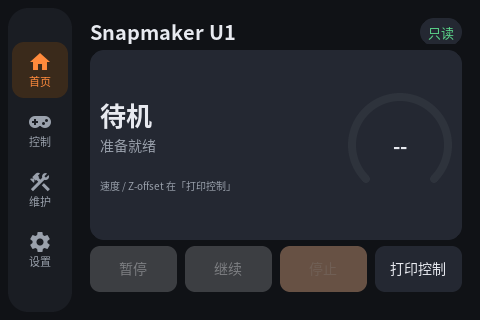
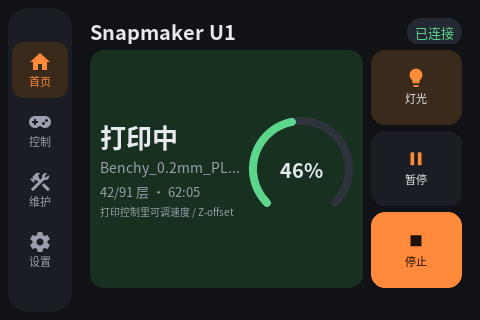
首页改成左 3/4 状态卡 + 右 1/4 快捷操作
- 右侧快捷列：灯光、暂停/继续（同一按钮随状态切换）、停止
- 左侧状态卡占满高度，点卡片仍打开打印控制浮层
- 文件名和层数/用时改为单行省略，不再换行挤压
- 层数/用时压缩为 “42/91 层 · 62:05”
- 版本 1.6.6

diff --git a/src/ui.cpp b/src/ui.cpp
@@ -281,9 +281,12 @@ struct Refs {
 
     // 首页快捷打印
     lv_obj_t* home_pause_btn = nullptr;
-    lv_obj_t* home_resume_btn = nullptr;
+    lv_obj_t* home_pause_icon = nullptr;
+    lv_obj_t* home_pause_text = nullptr;
     lv_obj_t* home_stop_btn = nullptr;
-    lv_obj_t* home_print_btn = nullptr;
+    lv_obj_t* home_light_btn = nullptr;
+    lv_obj_t* home_light_icon = nullptr;
+    lv_obj_t* home_light_text = nullptr;
 
     // 打印控制浮层
     lv_obj_t* print_sheet = nullptr;
@@ -903,6 +906,15 @@ void apply_light_ui(bool on) {
                                     theme::c(on ? theme::PRIMARY : theme::MUTED), 0);
     if (R.ctrl_light_text)
         lv_obj_set_style_text_color(R.ctrl_light_text,
+                                    theme::c(on ? theme::TEXT : theme::MUTED), 0);
+    if (R.home_light_btn)
+        lv_obj_set_style_bg_color(R.home_light_btn,
+                                  theme::c(on ? theme::PRIMARY_DIM : theme::SURFACE), 0);
+    if (R.home_light_icon)
+        lv_obj_set_style_text_color(R.home_light_icon,
+                                    theme::c(on ? theme::PRIMARY : theme::MUTED), 0);
+    if (R.home_light_text)
+        lv_obj_set_style_text_color(R.home_light_text,
                                     theme::c(on ? theme::TEXT : theme::MUTED), 0);
 }
 
@@ -2256,6 +2268,40 @@ void update_sheet() {
 
 // ---------------------------------------------------------------- pages
 
+void home_pause_cb(lv_event_t*) {
+    if (!MR) return;
+    PrinterState st = MR->snapshot();
+    if (st.print_state == "printing")
+        send_action("PAUSE");
+    else if (st.print_state == "paused")
+        send_action("RESUME");
+}
+
+void home_stop_cb(lv_event_t*) { send_action("CANCEL_PRINT"); }
+
+lv_obj_t* mk_home_quick(lv_obj_t* parent, const char* icon, const char* label,
+                        lv_event_cb_t cb, lv_obj_t** icon_out, lv_obj_t** text_out) {
+    lv_obj_t* b = lv_button_create(parent);
+    lv_obj_set_width(b, LV_PCT(100));
+    lv_obj_set_flex_grow(b, 1);
+    lv_obj_set_style_radius(b, 14, 0);
+    lv_obj_set_style_bg_color(b, theme::c(theme::SURFACE), 0);
+    lv_obj_set_style_bg_opa(b, LV_OPA_COVER, 0);
+    lv_obj_set_style_border_width(b, 0, 0);
+    lv_obj_set_style_shadow_width(b, 0, 0);
+    lv_obj_set_style_pad_all(b, 4, 0);
+    lv_obj_set_flex_flow(b, LV_FLEX_FLOW_COLUMN);
+    lv_obj_set_flex_align(b, LV_FLEX_ALIGN_CENTER, LV_FLEX_ALIGN_CENTER,
+                          LV_FLEX_ALIGN_CENTER);
+    lv_obj_set_style_pad_row(b, 2, 0);
+    lv_obj_t* ic = mk_icon(b, icon, 22, theme::PRIMARY);
+    lv_obj_t* tx = mk_label(b, label, 11, false, theme::TEXT);
+    if (icon_out) *icon_out = ic;
+    if (text_out) *text_out = tx;
+    if (cb) lv_obj_add_event_cb(b, cb, LV_EVENT_CLICKED, nullptr);
+    return b;
+}
+
 void build_home(lv_obj_t* p) {
     lv_obj_set_flex_flow(p, LV_FLEX_FLOW_COLUMN);
     lv_obj_set_style_pad_row(p, 6, 0);
@@ -2276,30 +2322,45 @@ void build_home(lv_obj_t* p) {
     R.conn_state = mk_label(chip, "连接中", 13, false, theme::MUTED);
     lv_obj_center(R.conn_state);
 
-    // 大状态卡：点开打印控制浮层
-    R.status_card = mk_card(p, theme::SURFACE_HI);
-    lv_obj_set_size(R.status_card, LV_PCT(100), 190);
+    lv_obj_t* body = mk_obj(p);
+    lv_obj_set_width(body, LV_PCT(100));
+    lv_obj_set_flex_grow(body, 1);
+    lv_obj_set_flex_flow(body, LV_FLEX_FLOW_ROW);
+    lv_obj_set_style_pad_column(body, 8, 0);
+
+    // 左边 3/4：状态 + 打印快捷
+    lv_obj_t* left = mk_obj(body);
+    lv_obj_set_height(left, LV_PCT(100));
+    lv_obj_set_flex_grow(left, 3);
+    lv_obj_set_flex_flow(left, LV_FLEX_FLOW_COLUMN);
+    lv_obj_set_style_pad_row(left, 6, 0);
+
+    R.status_card = mk_card(left, theme::SURFACE_HI);
+    lv_obj_set_width(R.status_card, LV_PCT(100));
+    lv_obj_set_flex_grow(R.status_card, 1);
     lv_obj_set_flex_flow(R.status_card, LV_FLEX_FLOW_ROW);
     lv_obj_set_flex_align(R.status_card, LV_FLEX_ALIGN_SPACE_BETWEEN,
                           LV_FLEX_ALIGN_CENTER, LV_FLEX_ALIGN_CENTER);
     lv_obj_add_flag(R.status_card, LV_OBJ_FLAG_CLICKABLE);
     lv_obj_add_event_cb(R.status_card, open_print_sheet_cb, LV_EVENT_CLICKED, nullptr);
 
-    lv_obj_t* left = mk_obj(R.status_card);
-    lv_obj_remove_flag(left, LV_OBJ_FLAG_CLICKABLE);
-    lv_obj_set_height(left, LV_SIZE_CONTENT);
-    lv_obj_set_flex_grow(left, 1);
-    lv_obj_set_style_pad_right(left, 8, 0);
-    lv_obj_set_flex_flow(left, LV_FLEX_FLOW_COLUMN);
-    lv_obj_set_style_pad_row(left, 2, 0);
-    R.status_title = mk_label(left, "待机", 26, true, theme::TEXT);
-    R.status_sub = mk_label(left, "准备就绪", 14, false, theme::MUTED);
+    lv_obj_t* sl = mk_obj(R.status_card);
+    lv_obj_remove_flag(sl, LV_OBJ_FLAG_CLICKABLE);
+    lv_obj_set_height(sl, LV_SIZE_CONTENT);
+    lv_obj_set_flex_grow(sl, 1);
+    lv_obj_set_style_pad_right(sl, 8, 0);
+    lv_obj_set_flex_flow(sl, LV_FLEX_FLOW_COLUMN);
+    lv_obj_set_style_pad_row(sl, 2, 0);
+    R.status_title = mk_label(sl, "待机", 26, true, theme::TEXT);
+    R.status_sub = mk_label(sl, "准备就绪", 14, false, theme::MUTED);
     lv_obj_set_width(R.status_sub, LV_PCT(100));
+    lv_obj_set_height(R.status_sub, lv_font_get_line_height(theme::font(14, false)) + 2);
     lv_label_set_long_mode(R.status_sub, LV_LABEL_LONG_MODE_DOTS);
-    R.status_sub2 = mk_label(left, "", 13, false, theme::MUTED);
+    R.status_sub2 = mk_label(sl, "", 13, false, theme::MUTED);
     lv_obj_set_width(R.status_sub2, LV_PCT(100));
+    lv_obj_set_height(R.status_sub2, lv_font_get_line_height(theme::font(13, false)) + 2);
     lv_label_set_long_mode(R.status_sub2, LV_LABEL_LONG_MODE_DOTS);
-    mk_label(left, "速度 / Z-offset 在「打印控制」", 10, false, theme::MUTED);
+    mk_label(sl, "打印控制里可调速度 / Z-offset", 10, false, theme::MUTED);
 
     R.status_arc = lv_arc_create(R.status_card);
     lv_obj_set_size(R.status_arc, 104, 104);
@@ -2315,14 +2376,26 @@ void build_home(lv_obj_t* p) {
     R.status_pct = mk_label(R.status_arc, "0%", 20, true, theme::TEXT);
     lv_obj_center(R.status_pct);
 
-    lv_obj_t* quick = mk_obj(p);
-    lv_obj_set_size(quick, LV_PCT(100), 46);
-    lv_obj_set_flex_flow(quick, LV_FLEX_FLOW_ROW);
-    lv_obj_set_style_pad_column(quick, 8, 0);
-    R.home_pause_btn = mk_button(quick, "暂停", false, action_cb, (void*)"PAUSE", 46);
-    R.home_resume_btn = mk_button(quick, "继续", false, action_cb, (void*)"RESUME", 46);
-    R.home_stop_btn = mk_button(quick, "停止", true, action_cb, (void*)"CANCEL_PRINT", 46);
-    R.home_print_btn = mk_button(quick, "打印控制", false, open_print_sheet_cb, nullptr, 46);
+    // 右边 1/4：灯光 / 暂停·继续 / 停止
+    lv_obj_t* right = mk_obj(body);
+    lv_obj_set_height(right, LV_PCT(100));
+    lv_obj_set_flex_grow(right, 1);
+    lv_obj_set_flex_flow(right, LV_FLEX_FLOW_COLUMN);
+    lv_obj_set_style_pad_row(right, 6, 0);
+
+    R.home_light_btn = mk_home_quick(right, IC_LIGHT, "灯光", ctrl_light_cb,
+                                     &R.home_light_icon, &R.home_light_text);
+    R.home_pause_btn = mk_home_quick(right, IC_PAUSE, "暂停", home_pause_cb,
+                                     &R.home_pause_icon, &R.home_pause_text);
+    R.home_stop_btn = mk_home_quick(right, IC_STOP, "停止", home_stop_cb,
+                                    nullptr, nullptr);
+
+    // 停止按钮用实心主色，和普通快捷操作区分开
+    lv_obj_set_style_bg_color(R.home_stop_btn, theme::c(theme::PRIMARY), 0);
+    lv_obj_t* stop_lbl = lv_obj_get_child(R.home_stop_btn, 0);
+    if (stop_lbl) lv_obj_set_style_text_color(stop_lbl, theme::c(0x201005), 0);
+    stop_lbl = lv_obj_get_child(R.home_stop_btn, 1);
+    if (stop_lbl) lv_obj_set_style_text_color(stop_lbl, theme::c(0x201005), 0);
 }
 
 // 点首页状态卡打开的打印控制浮层
@@ -2993,7 +3066,7 @@ void build_settings(lv_obj_t* p) {
     lv_obj_align(R.dev_nozzle, LV_ALIGN_TOP_LEFT, 0, 46);
     R.gui_line = mk_label(c2, "原厂 GUI 偏好 · 自动映射 —", 11, false, theme::MUTED);
     lv_obj_align(R.gui_line, LV_ALIGN_TOP_LEFT, 0, 68);
-    lv_obj_t* ver = mk_label(c2, "skreeu1 1.6.5 · LVGL + FreeType · 480×320", 11, false, 0x5A616B);
+    lv_obj_t* ver = mk_label(c2, "skreeu1 1.6.6 · LVGL + FreeType · 480×320", 11, false, 0x5A616B);
     lv_obj_align(ver, LV_ALIGN_BOTTOM_LEFT, 0, 0);
 
     // 打印偏好（Klipper print_task_config）
@@ -3945,9 +4018,11 @@ void ui_tick() {
     // status card
     bool printing = (s.print_state == "printing");
     bool paused = (s.print_state == "paused");
-    set_disabled(R.home_pause_btn, !printing);
-    set_disabled(R.home_resume_btn, !paused);
-    set_disabled(R.home_stop_btn, !(printing || paused));
+    bool active = printing || paused;
+    set_disabled(R.home_pause_btn, !active);
+    set_disabled(R.home_stop_btn, !active);
+    if (R.home_pause_text) lv_label_set_text(R.home_pause_text, paused ? "继续" : "暂停");
+    if (R.home_pause_icon) lv_label_set_text(R.home_pause_icon, paused ? IC_PLAY : IC_PAUSE);
     const char* state_txt = printing ? "打印中" : (paused ? "已暂停" : "待机");
 
     if (R.status_title) lv_label_set_text(R.status_title, state_txt);
@@ -3962,7 +4037,7 @@ void ui_tick() {
     if (R.status_sub2) {
         char buf[64];
         if (printing || paused) {
-            snprintf(buf, sizeof(buf), "第 %d / %d 层 · 已用 %s", s.layer, s.layers,
+            snprintf(buf, sizeof(buf), "%d/%d 层 · %s", s.layer, s.layers,
                      fmt_time(s.print_duration).c_str());
             lv_label_set_text(R.status_sub2, buf);
         } else {

diff --git a/README.md b/README.md
@@ -14,7 +14,7 @@ It talks to Moonraker directly and keeps the stock services (unisrv / MQTT) runn
 ## 特性
 
 - **4 页导航**：首页 / 控制 / 维护 / 设置，左侧悬浮胶囊导航（可用 `SKREEU1_RAIL=right` 换到右侧）
-- **首页**：大状态卡 + 暂停/继续/停止，点「打印控制」看速度倍率 / Z-offset
+- **首页**：左侧 3/4 大状态卡，右侧 1/4 快捷操作（灯光 / 暂停·继续 / 停止）；点状态卡看速度倍率 / Z-offset
 - **喷嘴详情**：耗材卡、温度卡、自动预进料、喷嘴参数（0.2/0.4/0.6/0.8 + 标准/高流）、载入/退料
 - **调温浮层**：竖向滑块（松手才下发）、数字键盘、6 个可编辑快捷温度；喷嘴 `M104`、热床 `M140`
 - **更换耗材**：品牌列 + 28 色调色板 + 型号列表，支持自定义品牌和自定义类型
@@ -189,9 +189,9 @@ DRM 显示控制器保持打开。
 
 ### 首页
 
-- 状态卡：打印进度、文件名、用时、耗材
-- 暂停 / 继续 / 停止：打印中可用
-- 「打印控制」按钮：打开速度倍率 / Z-offset / 进度浮层
+- 左侧 3/4：大状态卡，显示进度环、状态、文件名、层数 / 用时
+- 右侧 1/4：灯光开关、暂停 / 继续（同一个按钮，按当前状态切换）、停止
+- 点状态卡：打开速度倍率 / Z-offset / 进度浮层
 - 顶部通知可以**上滑隐藏**，进料结束后自动恢复
 
 ### 控制页
